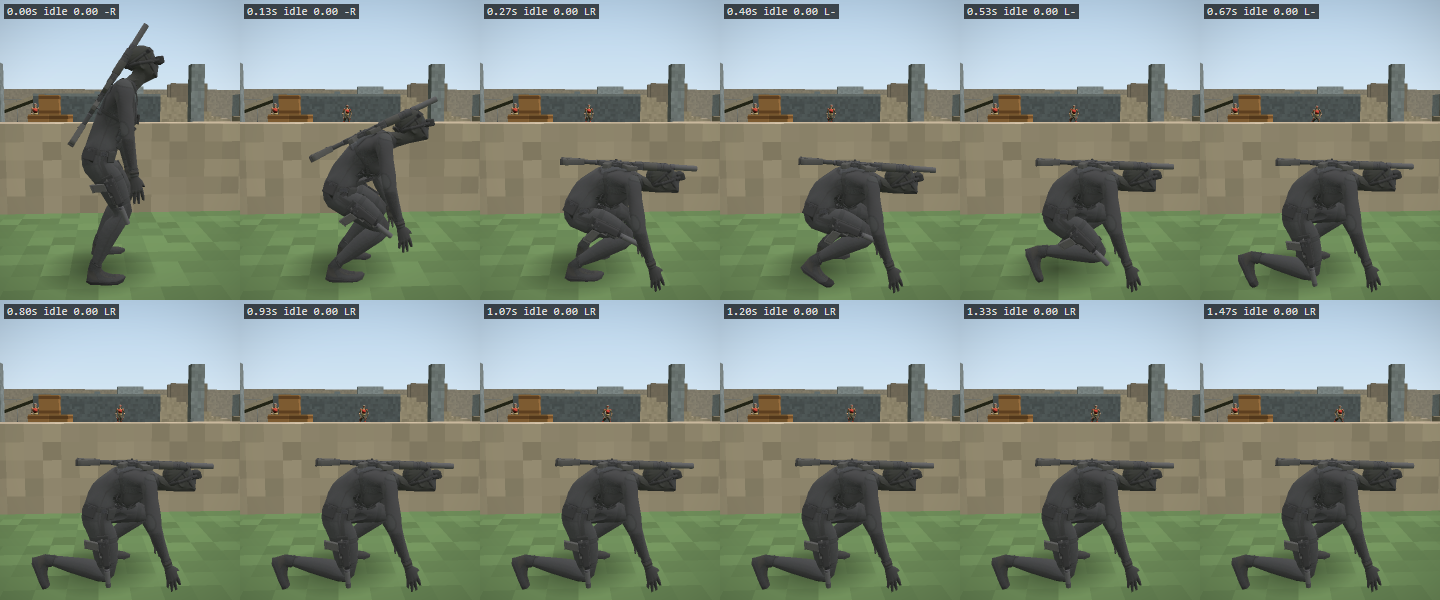
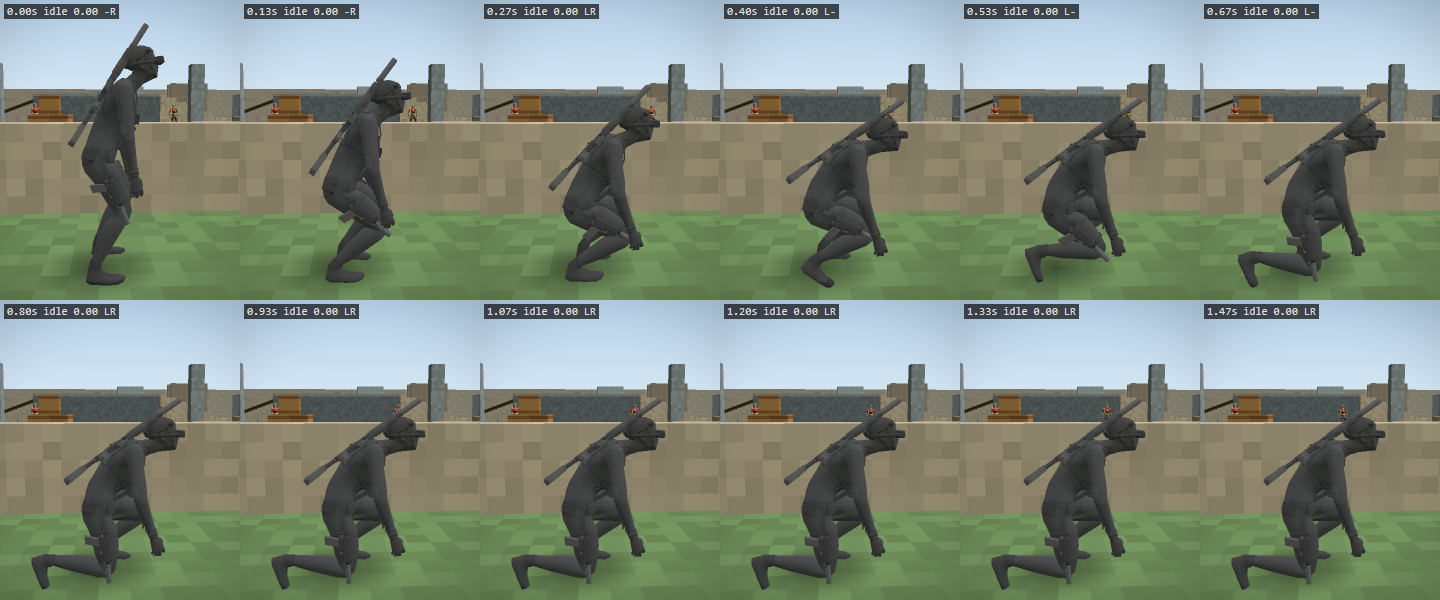
anim-cleanup: after CT Core's P1b - back gun, crouch and wall re-checked

diff --git a/docs/anim-cleanup/LOG.md b/docs/anim-cleanup/LOG.md
@@ -71,3 +71,9 @@
   e2e-mouse KBM verbs, e2e-modes / e2e-enemies / e2e-ct-warehouse prompt texts, e2e-stealth free orbit), the two that
   fail on master (e2e-kestrel, e2e-camera-bounds) and e2e-weapons-carry's crouch-walk back gun (CT Core's P1b crouch
   angle). The PR's full run follows those fixes.
+- Merged CT Core's P1b (feature/ct-prototype 2b67c57): crouch 35-45 degrees, wall arms hang. One conflict
+  (gameState.ts openLeft: F1a also put the weapon in the left hand on the left shoulder, local only): combined, their
+  condition (left shoulder, not tied to aiming) with this job's gate (handSwitchOk) and wire bit. After it:
+  e2e-weapons-carry passes (crouch-walk back gun bore up 0.59), e2e-clip and e2e-anim pass; crouch and wall sheets
+  re-shot (natural crouch, arms hanging on the wall). tests/input.test.ts binding-table checks fail on
+  feature/ct-prototype itself (their F1a controls in progress; no diff here).

diff --git a/docs/anim-cleanup/STATE.md b/docs/anim-cleanup/STATE.md
@@ -5,5 +5,6 @@
 - Slice 3 traversal contacts: world grips done (ladder, drainpipe, ledge, pipe, zipline: palm on the real geometry,
   fingers round it; independent check + fix round 1). Back-to-wall pose and the crouch angle: CT Core's P1b.
 - Slice 4 hand shapes: done (trigger, support, wrap, relaxed).
-- Open: rerun the back-gun crouch check after CT Core's P1b; audit rappel / fence / split jump / vault / duct (shot
+- CT Core's P1b merged (2b67c57): back-gun crouch check passes; crouch and wall re-shot.
+- Open: audit rappel / fence / split jump / vault / duct (shot
   set-ups); slice 5 transitions; full e2e; PR after PR #7 and feature/ct-prototype merge (A1).
